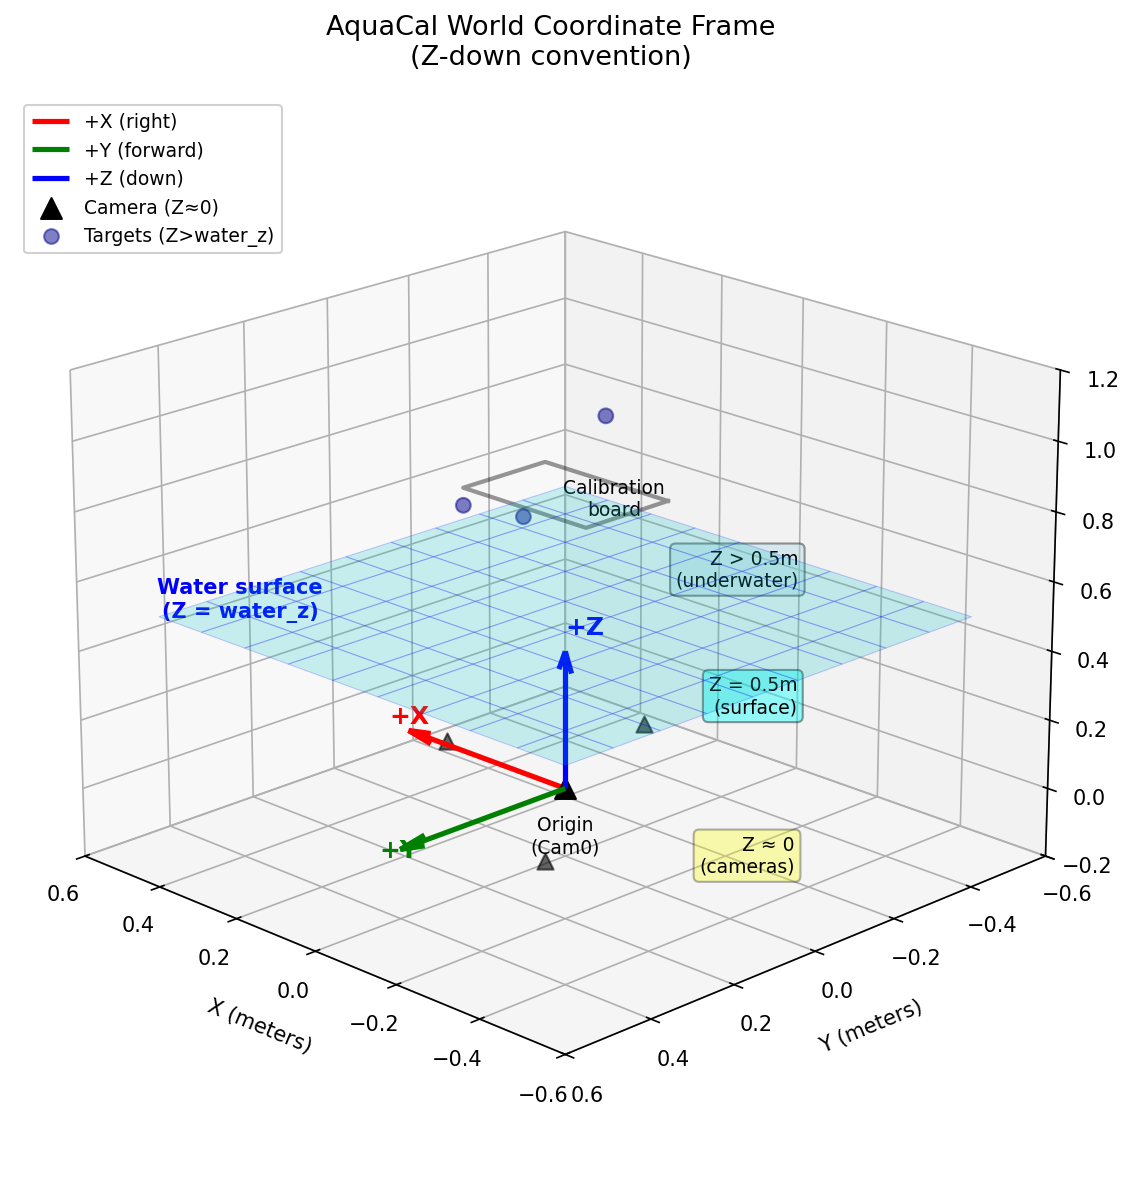
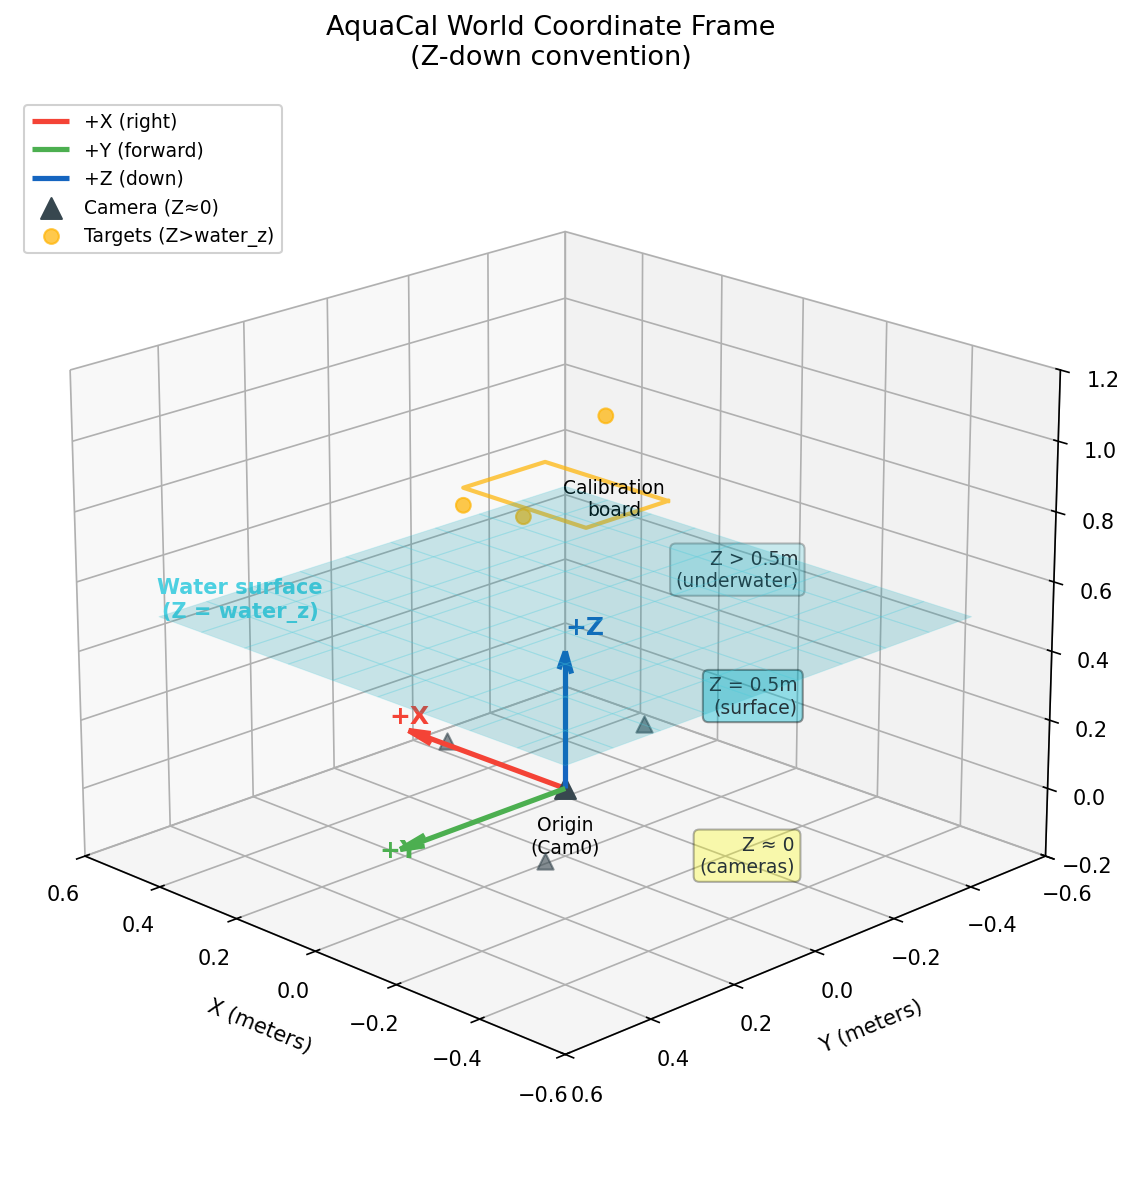
feat(11-01): update existing diagrams to use shared palette
- Update docs/guide/_diagrams/ray_trace.py to import from palette.py
- Update docs/guide/_diagrams/coordinate_frames.py to import from palette.py
- Regenerate docs/_static/diagrams/ray_trace.png with palette colors
- Regenerate docs/_static/diagrams/coordinate_frames.png with palette colors

diff --git a/docs/guide/_diagrams/coordinate_frames.py b/docs/guide/_diagrams/coordinate_frames.py
@@ -4,10 +4,27 @@ Generates a 3D perspective view showing world coordinate frame, camera positions
 water surface, and underwater region.
 """
 
+import sys
 from pathlib import Path
 
 import matplotlib.pyplot as plt
 import numpy as np
+
+# Add shared scripts dir to import palette
+_project_root = Path(__file__).parent.parent.parent.parent
+_scripts_dir = _project_root / "docs" / "_static" / "scripts"
+sys.path.insert(0, str(_scripts_dir))
+
+from palette import (  # noqa: E402
+    AXIS_X,
+    AXIS_Y,
+    AXIS_Z,
+    BOARD_COLOR,
+    CAMERA_COLOR,
+    LABEL_COLOR,
+    WATER_FILL,
+    WATER_SURFACE,
+)
 
 
 def generate(output_dir: Path):
@@ -28,7 +45,7 @@ def generate(output_dir: Path):
         axis_length,
         0,
         0,
-        color="r",
+        color=AXIS_X,
         arrow_length_ratio=0.15,
         linewidth=2.5,
         label="+X (right)",
@@ -40,7 +57,7 @@ def generate(output_dir: Path):
         0,
         axis_length,
         0,
-        color="g",
+        color=AXIS_Y,
         arrow_length_ratio=0.15,
         linewidth=2.5,
         label="+Y (forward)",
@@ -52,19 +69,21 @@ def generate(output_dir: Path):
         0,
         0,
         axis_length,
-        color="b",
+        color=AXIS_Z,
         arrow_length_ratio=0.15,
         linewidth=2.5,
         label="+Z (down)",
     )
 
     # Axis labels
-    ax.text(axis_length + 0.05, 0, 0, "+X", color="r", fontsize=12, weight="bold")
-    ax.text(0, axis_length + 0.05, 0, "+Y", color="g", fontsize=12, weight="bold")
-    ax.text(0, 0, axis_length + 0.05, "+Z", color="b", fontsize=12, weight="bold")
+    ax.text(axis_length + 0.05, 0, 0, "+X", color=AXIS_X, fontsize=12, weight="bold")
+    ax.text(0, axis_length + 0.05, 0, "+Y", color=AXIS_Y, fontsize=12, weight="bold")
+    ax.text(0, 0, axis_length + 0.05, "+Z", color=AXIS_Z, fontsize=12, weight="bold")
 
     # Mark origin (reference camera)
-    ax.scatter([0], [0], [0], color="black", s=100, marker="^", label="Camera (Z≈0)")
+    ax.scatter(
+        [0], [0], [0], color=CAMERA_COLOR, s=100, marker="^", label="Camera (Z≈0)"
+    )
     ax.text(0, 0, -0.08, "Origin\n(Cam0)", ha="center", va="top", fontsize=9)
 
     # Draw additional camera positions
@@ -74,7 +93,9 @@ def generate(output_dir: Path):
         [0.1, -0.3, 0.02],
     ]
     for i, pos in enumerate(camera_positions, start=1):
-        ax.scatter(pos[0], pos[1], pos[2], color="black", s=60, marker="^", alpha=0.6)
+        ax.scatter(
+            pos[0], pos[1], pos[2], color=CAMERA_COLOR, s=60, marker="^", alpha=0.6
+        )
 
     # Water surface plane
     water_z = 0.5
@@ -88,8 +109,8 @@ def generate(output_dir: Path):
         Y_plane,
         Z_plane,
         alpha=0.2,
-        color="cyan",
-        edgecolor="blue",
+        color=WATER_FILL,
+        edgecolor=WATER_SURFACE,
         linewidth=0.5,
     )
     ax.text(
@@ -97,7 +118,7 @@ def generate(output_dir: Path):
         0.4,
         water_z,
         "Water surface\n(Z = water_z)",
-        color="blue",
+        color=WATER_SURFACE,
         fontsize=10,
         weight="bold",
         ha="center",
@@ -116,10 +137,10 @@ def generate(output_dir: Path):
         target_x,
         target_y,
         target_z,
-        color="darkblue",
+        color=BOARD_COLOR,
         s=50,
         marker="o",
-        alpha=0.5,
+        alpha=0.7,
         label="Targets (Z>water_z)",
     )
 
@@ -138,9 +159,9 @@ def generate(output_dir: Path):
         board_corners[:, 0],
         board_corners[:, 1],
         board_corners[:, 2],
-        "k-",
+        color=BOARD_COLOR,
         linewidth=2,
-        alpha=0.4,
+        alpha=0.7,
     )
     ax.text(0, -0.12, board_z, "Calibration\nboard", ha="center", va="top", fontsize=9)
 
@@ -153,6 +174,7 @@ def generate(output_dir: Path):
         fontsize=9,
         ha="right",
         va="center",
+        color=LABEL_COLOR,
         bbox=dict(boxstyle="round,pad=0.3", facecolor="yellow", alpha=0.3),
     )
     ax.text(
@@ -163,7 +185,8 @@ def generate(output_dir: Path):
         fontsize=9,
         ha="right",
         va="center",
-        bbox=dict(boxstyle="round,pad=0.3", facecolor="cyan", alpha=0.4),
+        color=LABEL_COLOR,
+        bbox=dict(boxstyle="round,pad=0.3", facecolor=WATER_FILL, alpha=0.4),
     )
     ax.text(
         -0.55,
@@ -173,7 +196,8 @@ def generate(output_dir: Path):
         fontsize=9,
         ha="right",
         va="center",
-        bbox=dict(boxstyle="round,pad=0.3", facecolor="lightblue", alpha=0.4),
+        color=LABEL_COLOR,
+        bbox=dict(boxstyle="round,pad=0.3", facecolor=WATER_SURFACE, alpha=0.25),
     )
 
     # Configure 3D axes

diff --git a/docs/guide/_diagrams/ray_trace.py b/docs/guide/_diagrams/ray_trace.py
@@ -13,6 +13,22 @@ import numpy as np
 project_root = Path(__file__).parent.parent.parent.parent
 sys.path.insert(0, str(project_root / "src"))
 
+# Add shared scripts dir to import palette
+scripts_dir = project_root / "docs" / "_static" / "scripts"
+sys.path.insert(0, str(scripts_dir))
+
+from palette import (  # noqa: E402
+    AIR_FILL,
+    BOARD_COLOR,
+    CAMERA_COLOR,
+    INTERFACE_POINT,
+    LABEL_COLOR,
+    RAY_AIR,
+    RAY_WATER,
+    WATER_FILL,
+    WATER_SURFACE,
+)
+
 from aquacal.core.refractive_geometry import snells_law_3d  # noqa: E402
 
 
@@ -95,7 +111,7 @@ def generate(output_dir: Path):
     fig, ax = plt.subplots(figsize=(10, 6))
 
     # Draw water surface
-    ax.axhline(water_z, color="blue", linewidth=2, linestyle="--", alpha=0.5)
+    ax.axhline(water_z, color=WATER_SURFACE, linewidth=2, linestyle="--", alpha=0.8)
     ax.text(
         0.95,
         water_z + 0.05,
@@ -103,22 +119,27 @@ def generate(output_dir: Path):
         ha="right",
         va="bottom",
         fontsize=10,
-        color="blue",
+        color=WATER_SURFACE,
     )
 
     # Draw air and water regions
     ax.fill_between(
-        [-0.1, 1.0], 0, water_z, alpha=0.05, color="cyan", label="Air (n=1.0)"
+        [-0.1, 1.0], 0, water_z, alpha=0.12, color=AIR_FILL, label="Air (n=1.0)"
     )
     ax.fill_between(
-        [-0.1, 1.0], water_z, 1.5, alpha=0.1, color="blue", label="Water (n=1.333)"
+        [-0.1, 1.0],
+        water_z,
+        1.5,
+        alpha=0.15,
+        color=WATER_FILL,
+        label="Water (n=1.333)",
     )
 
     # Draw incident ray (camera to interface)
     ax.plot(
         [C[0], P[0]],
         [C[2], P[2]],
-        "r-",
+        color=RAY_AIR,
         linewidth=2,
         label="Incident ray (air)",
         marker="o",
@@ -129,7 +150,7 @@ def generate(output_dir: Path):
     ax.plot(
         [P[0], Q[0]],
         [P[2], Q[2]],
-        "g-",
+        color=RAY_WATER,
         linewidth=2,
         label="Refracted ray (water)",
         marker="o",
@@ -145,8 +166,8 @@ def generate(output_dir: Path):
         -normal_length,
         head_width=0.03,
         head_length=0.04,
-        fc="black",
-        ec="black",
+        fc=LABEL_COLOR,
+        ec=LABEL_COLOR,
         linewidth=1.5,
     )
     ax.text(
@@ -155,16 +176,19 @@ def generate(output_dir: Path):
         "n [0,0,-1]",
         fontsize=9,
         va="center",
+        color=LABEL_COLOR,
     )
 
     # Mark points
-    ax.plot(C[0], C[2], "ko", markersize=8, label="Camera C")
+    ax.plot(C[0], C[2], "o", color=CAMERA_COLOR, markersize=8, label="Camera C")
     ax.text(C[0] - 0.05, C[2] - 0.08, "C (camera)", ha="right", fontsize=10)
 
-    ax.plot(P[0], P[2], "mo", markersize=8, label="Interface point P")
+    ax.plot(
+        P[0], P[2], "o", color=INTERFACE_POINT, markersize=8, label="Interface point P"
+    )
     ax.text(P[0], P[2] + 0.08, "P (interface)", ha="center", va="bottom", fontsize=10)
 
-    ax.plot(Q[0], Q[2], "bo", markersize=8, label="Target Q")
+    ax.plot(Q[0], Q[2], "o", color=BOARD_COLOR, markersize=8, label="Target Q")
     ax.text(Q[0] + 0.05, Q[2], "Q (target)", ha="left", fontsize=10)
 
     # Add angle annotations
@@ -174,14 +198,14 @@ def generate(output_dir: Path):
         xy=(P[0], P[2]),
         xytext=(P[0] - angle_offset, P[2] - angle_offset),
         fontsize=9,
-        color="red",
+        color=RAY_AIR,
     )
     ax.annotate(
         f"θᵣ = {theta_water:.1f}°",
         xy=(P[0], P[2]),
         xytext=(P[0] + angle_offset, P[2] + angle_offset),
         fontsize=9,
-        color="green",
+        color=RAY_WATER,
     )
 
     # Add Snell's law equation
